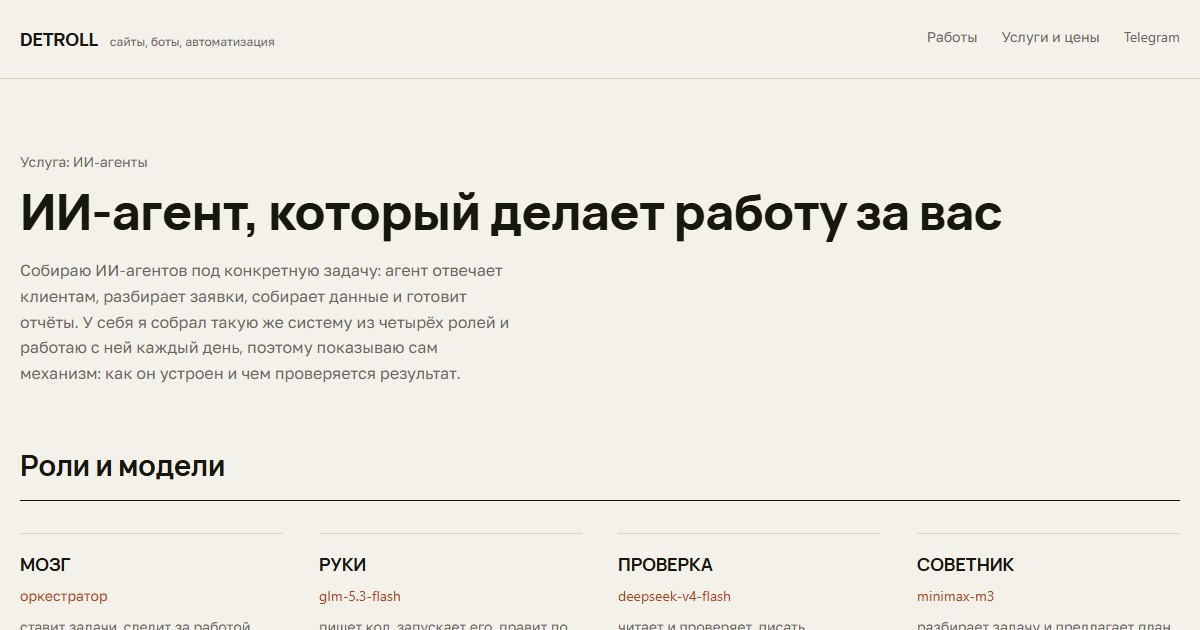
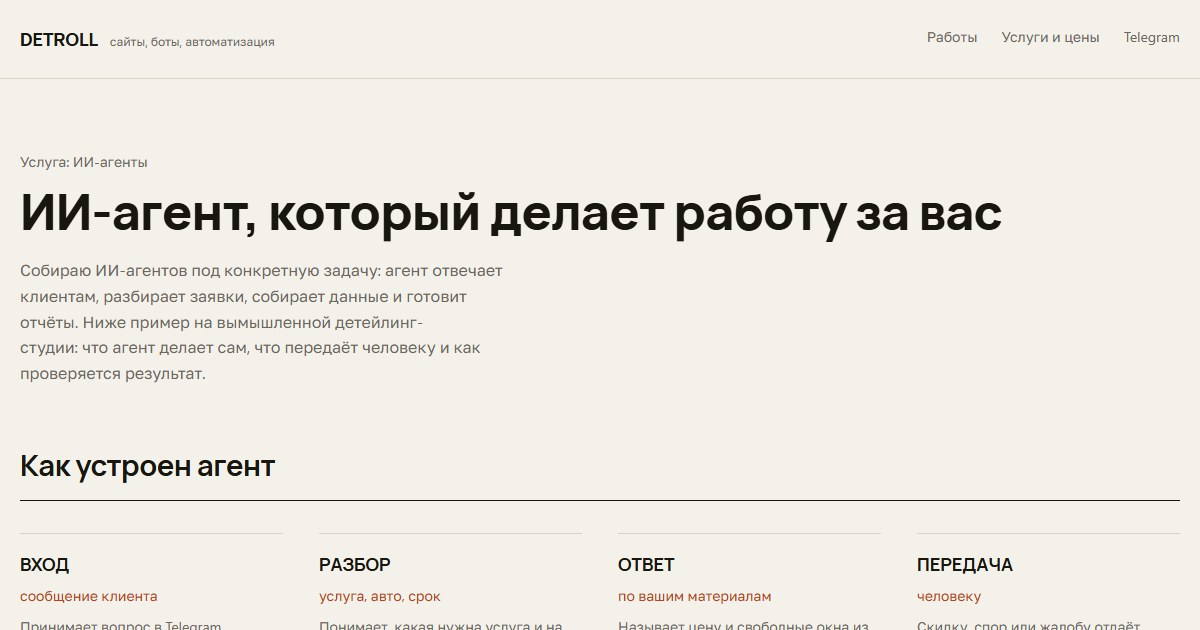
Страница ИИ-агента: пример агента для студии вместо описания Оптимуса, новые картинки превью

diff --git a/ai-agent/index.html b/ai-agent/index.html
@@ -3,22 +3,22 @@
 <head>
 <meta charset="UTF-8" />
 <meta name="viewport" content="width=device-width, initial-scale=1.0" />
-<title>ИИ-агент под вашу задачу: как он устроен - Detroll</title>
-<meta name="description" content="Собираю ИИ-агентов под конкретную задачу: отвечают клиентам, разбирают заявки, собирают данные, готовят отчёты. Показываю, как устроен агент и чем проверяется результат." />
+<title>Пример ИИ-агента: как он принимает заявки - Detroll</title>
+<meta name="description" content="Пример ИИ-агента для студии: отвечает клиентам по прайсу, оформляет заявку и передаёт сложное человеку. Показываю, что агент делает сам и как проверяется результат." />
 <meta name="theme-color" content="#F4F1EA" />
 <link rel="canonical" href="https://detroll1.github.io/ai-agent/" />
 <meta property="og:type" content="website" />
 <meta property="og:site_name" content="Detroll" />
 <meta property="og:locale" content="ru_RU" />
 <meta property="og:url" content="https://detroll1.github.io/ai-agent/" />
-<meta property="og:title" content="ИИ-агент под вашу задачу: как он устроен" />
-<meta property="og:description" content="Собираю ИИ-агентов под конкретную задачу: отвечают клиентам, разбирают заявки, собирают данные, готовят отчёты. Показываю, как устроен агент и чем проверяется результат." />
+<meta property="og:title" content="Пример ИИ-агента: как он принимает заявки" />
+<meta property="og:description" content="Пример ИИ-агента для студии: отвечает клиентам по прайсу, оформляет заявку и передаёт сложное человеку. Показываю, что агент делает сам и как проверяется результат." />
 <meta property="og:image" content="https://detroll1.github.io/ai-agent/og-1200x630.jpg" />
 <meta property="og:image:width" content="1200" />
 <meta property="og:image:height" content="630" />
 <meta name="twitter:card" content="summary_large_image" />
-<meta name="twitter:title" content="ИИ-агент под вашу задачу: как он устроен" />
-<meta name="twitter:description" content="Собираю ИИ-агентов под конкретную задачу: отвечают клиентам, разбирают заявки, собирают данные, готовят отчёты. Показываю, как устроен агент и чем проверяется результат." />
+<meta name="twitter:title" content="Пример ИИ-агента: как он принимает заявки" />
+<meta name="twitter:description" content="Пример ИИ-агента для студии: отвечает клиентам по прайсу, оформляет заявку и передаёт сложное человеку. Показываю, что агент делает сам и как проверяется результат." />
 <meta name="twitter:image" content="https://detroll1.github.io/ai-agent/og-1200x630.jpg" />
 <style>
   @font-face{ font-family:"VelaSans"; font-weight:400; font-display:swap; src:url("../assets/fonts/VelaSans-Regular.ttf") format("truetype"); }
@@ -123,64 +123,77 @@
   <section class="hero">
     <div class="kicker">Услуга: ИИ-агенты</div>
     <h1>ИИ-агент, который делает работу за вас</h1>
-    <p>Собираю ИИ-агентов под конкретную задачу: агент отвечает клиентам, разбирает заявки, собирает данные и готовит отчёты. У себя я собрал такую же систему из четырёх ролей и работаю с ней каждый день, поэтому показываю сам механизм: как он устроен и чем проверяется результат.</p>
+    <p>Собираю ИИ-агентов под конкретную задачу: агент отвечает клиентам, разбирает заявки, собирает данные и готовит отчёты. Ниже пример на вымышленной детейлинг-студии: что агент делает сам, что передаёт человеку и как проверяется результат.</p>
   </section>
 
-  <h2>Роли и модели</h2>
+  <h2>Как устроен агент</h2>
   <div class="roles">
     <div class="role">
-      <h3>МОЗГ</h3>
-      <div class="model">оркестратор</div>
-      <p>ставит задачи, следит за работой, отчитывается по этапам.</p>
+      <h3>ВХОД</h3>
+      <div class="model">сообщение клиента</div>
+      <p>Принимает вопрос в Telegram или с сайта, например «сколько стоит керамика на седан и когда есть окно».</p>
     </div>
     <div class="role">
-      <h3>РУКИ</h3>
-      <div class="model">glm-5.3-flash</div>
-      <p>пишет код, запускает его, правит по замечаниям проверки.</p>
+      <h3>РАЗБОР</h3>
+      <div class="model">услуга, авто, срок</div>
+      <p>Понимает, какая нужна услуга и на какую дату, и сверяет это с прайсом.</p>
     </div>
     <div class="role">
-      <h3>ПРОВЕРКА</h3>
-      <div class="model">deepseek-v4-flash</div>
-      <p>читает и проверяет, писать не может: запись закрыта на уровне платформы.</p>
+      <h3>ОТВЕТ</h3>
+      <div class="model">по вашим материалам</div>
+      <p>Называет цену и свободные окна из вашего прайса и расписания. Чего в материалах нет, не придумывает.</p>
     </div>
     <div class="role">
-      <h3>СОВЕТНИК</h3>
-      <div class="model">minimax-m3</div>
-      <p>разбирает задачу и предлагает план до начала работы.</p>
+      <h3>ПЕРЕДАЧА</h3>
+      <div class="model">человеку</div>
+      <p>Скидку, спор или жалобу отдаёт администратору вместе с готовой сводкой разговора.</p>
     </div>
   </div>
 
-  <h2>Что уже работает на этой системе</h2>
+  <h2>Что агент делает сам, а что нет</h2>
   <ul class="facts">
-    <li>Проверка всей системы одной командой: 51 пункт, сейчас 0 сбоев.</li>
-    <li>Диспетчер сам держит лимит правок и возвращает ошибку, если проверяющая роль что-то записала.</li>
-    <li>Роли сидят на трёх разных моделях: если одна ошибается, вторая это ловит.</li>
-    <li>Сторож расхода подписки: раз в час сверяет лимиты и пишет в Telegram только у порога.</li>
+    <li>Сам отвечает на частые вопросы, считает цену по вашему прайсу и предлагает свободные окна.</li>
+    <li>Сам собирает контакт и оформляет заявку одной карточкой: имя, телефон, услуга, автомобиль, дата.</li>
+    <li>Человеку передаёт скидки и жалобы, а также всё, чего нет в ваших материалах.</li>
+    <li>Каждый ответ можно открыть и увидеть, на каком пункте прайса он основан.</li>
   </ul>
 
-  <h2>Как это выглядит</h2>
-  <div class="shot">
-    <pre class="term">[ОК]   ruki: модель opencode-go/glm-5.3-flash есть в подписке
-[ОК]   proverka: модель opencode-go/deepseek-v4-flash есть в подписке
-[ОК]   sovetnik: модель opencode-go/minimax-m3 есть в подписке
-[ОК]   диспетчер следит за read-only ролями (слепок папки до/после)
-[ОК]   внешний сторож: слепок снят и запись поймана (код 2)
+  <h2>Чем проверяется результат</h2>
+  <ul class="facts">
+    <li>Перед сдачей прогоняю типовые вопросы из вашей переписки и сверяю ответы с прайсом вручную.</li>
+    <li>Агенту запрещено обещать то, чего нет в материалах: в таком случае он передаёт вопрос человеку.</li>
+    <li>Две недели поддержки после сдачи: если агент ответил не так, правлю логику.</li>
+  </ul>
 
-ИТОГО: успешно 51, сбоев 0</pre>
+  <h2>Пример диалога</h2>
+  <div class="shot">
+    <pre class="term">Клиент: сколько стоит керамика на седан и когда есть окно?
+
+Агент:  Керамика 9H на седан: 49 500 ₽, работа занимает два дня.
+        Ближайшие окна: четверг и пятница. На какой день записать?
+
+Клиент: на пятницу, меня зовут Антон, +7 900 000-00-00
+
+Агент:  Записал: пятница, керамика 9H, седан.
+        Администратор подтвердит время в течение часа.</pre>
   </div>
-  <div class="cap">Так выглядит проверка системы: одна команда, 51 пункт, ни одного сбоя.</div>
+  <div class="cap">Диалог с клиентом. Студия вымышленная (AURA Detailing из раздела «Работы»), цены из её прайса.</div>
 
   <div class="shot">
-    <pre class="term">[ruki] правка 0 …
-[proverka] проверка 1: вердикт ОК
-ИТОГ: сделано и принято проверкой за 0 правок, 1 проверок.</pre>
+    <pre class="term">Заявка для администратора
+
+Услуга:      керамика 9H
+Автомобиль:  седан
+Дата:        пятница
+Имя:         Антон
+Телефон:     +7 900 000-00-00
+Статус:      ждёт подтверждения</pre>
   </div>
-  <div class="cap">Цикл работы: руки пишут, проверка принимает. Правки идут по кругу, но не больше двух раз.</div>
+  <div class="cap">Так заявка приходит администратору: одна карточка, ничего не нужно переспрашивать.</div>
 
   <div class="tags">
     <span>ИИ-агенты</span>
     <span>автоматизация</span>
-    <span>оркестрация</span>
     <span>Telegram</span>
     <span>Python</span>
     <span>проверка</span>

diff --git a/uslugi/index.html b/uslugi/index.html
@@ -385,7 +385,7 @@
       <div class="opts"><b>Что нужно от вас:</b> какую задачу закрывает агент и что сейчас делается руками, где живут данные, куда присылать результат.<br />
       <b>Опции:</b> подключение к базе или CRM плюс 2 500 ₽, панель управления и логи плюс 3 000 ₽, работа с файлами и документами плюс 2 000 ₽, память между диалогами плюс 1 500 ₽, уведомления в Telegram плюс 1 500 ₽.<br />
       <b>Что не входит:</b> оплата за токены модели, доступ к закрытым системам без API.<br />
-      <a href="../ai-agent/">Кейс: как это устроено</a></div>
+      <a href="../ai-agent/">Пример: как это устроено</a></div>
     </div>
 
   </div>
